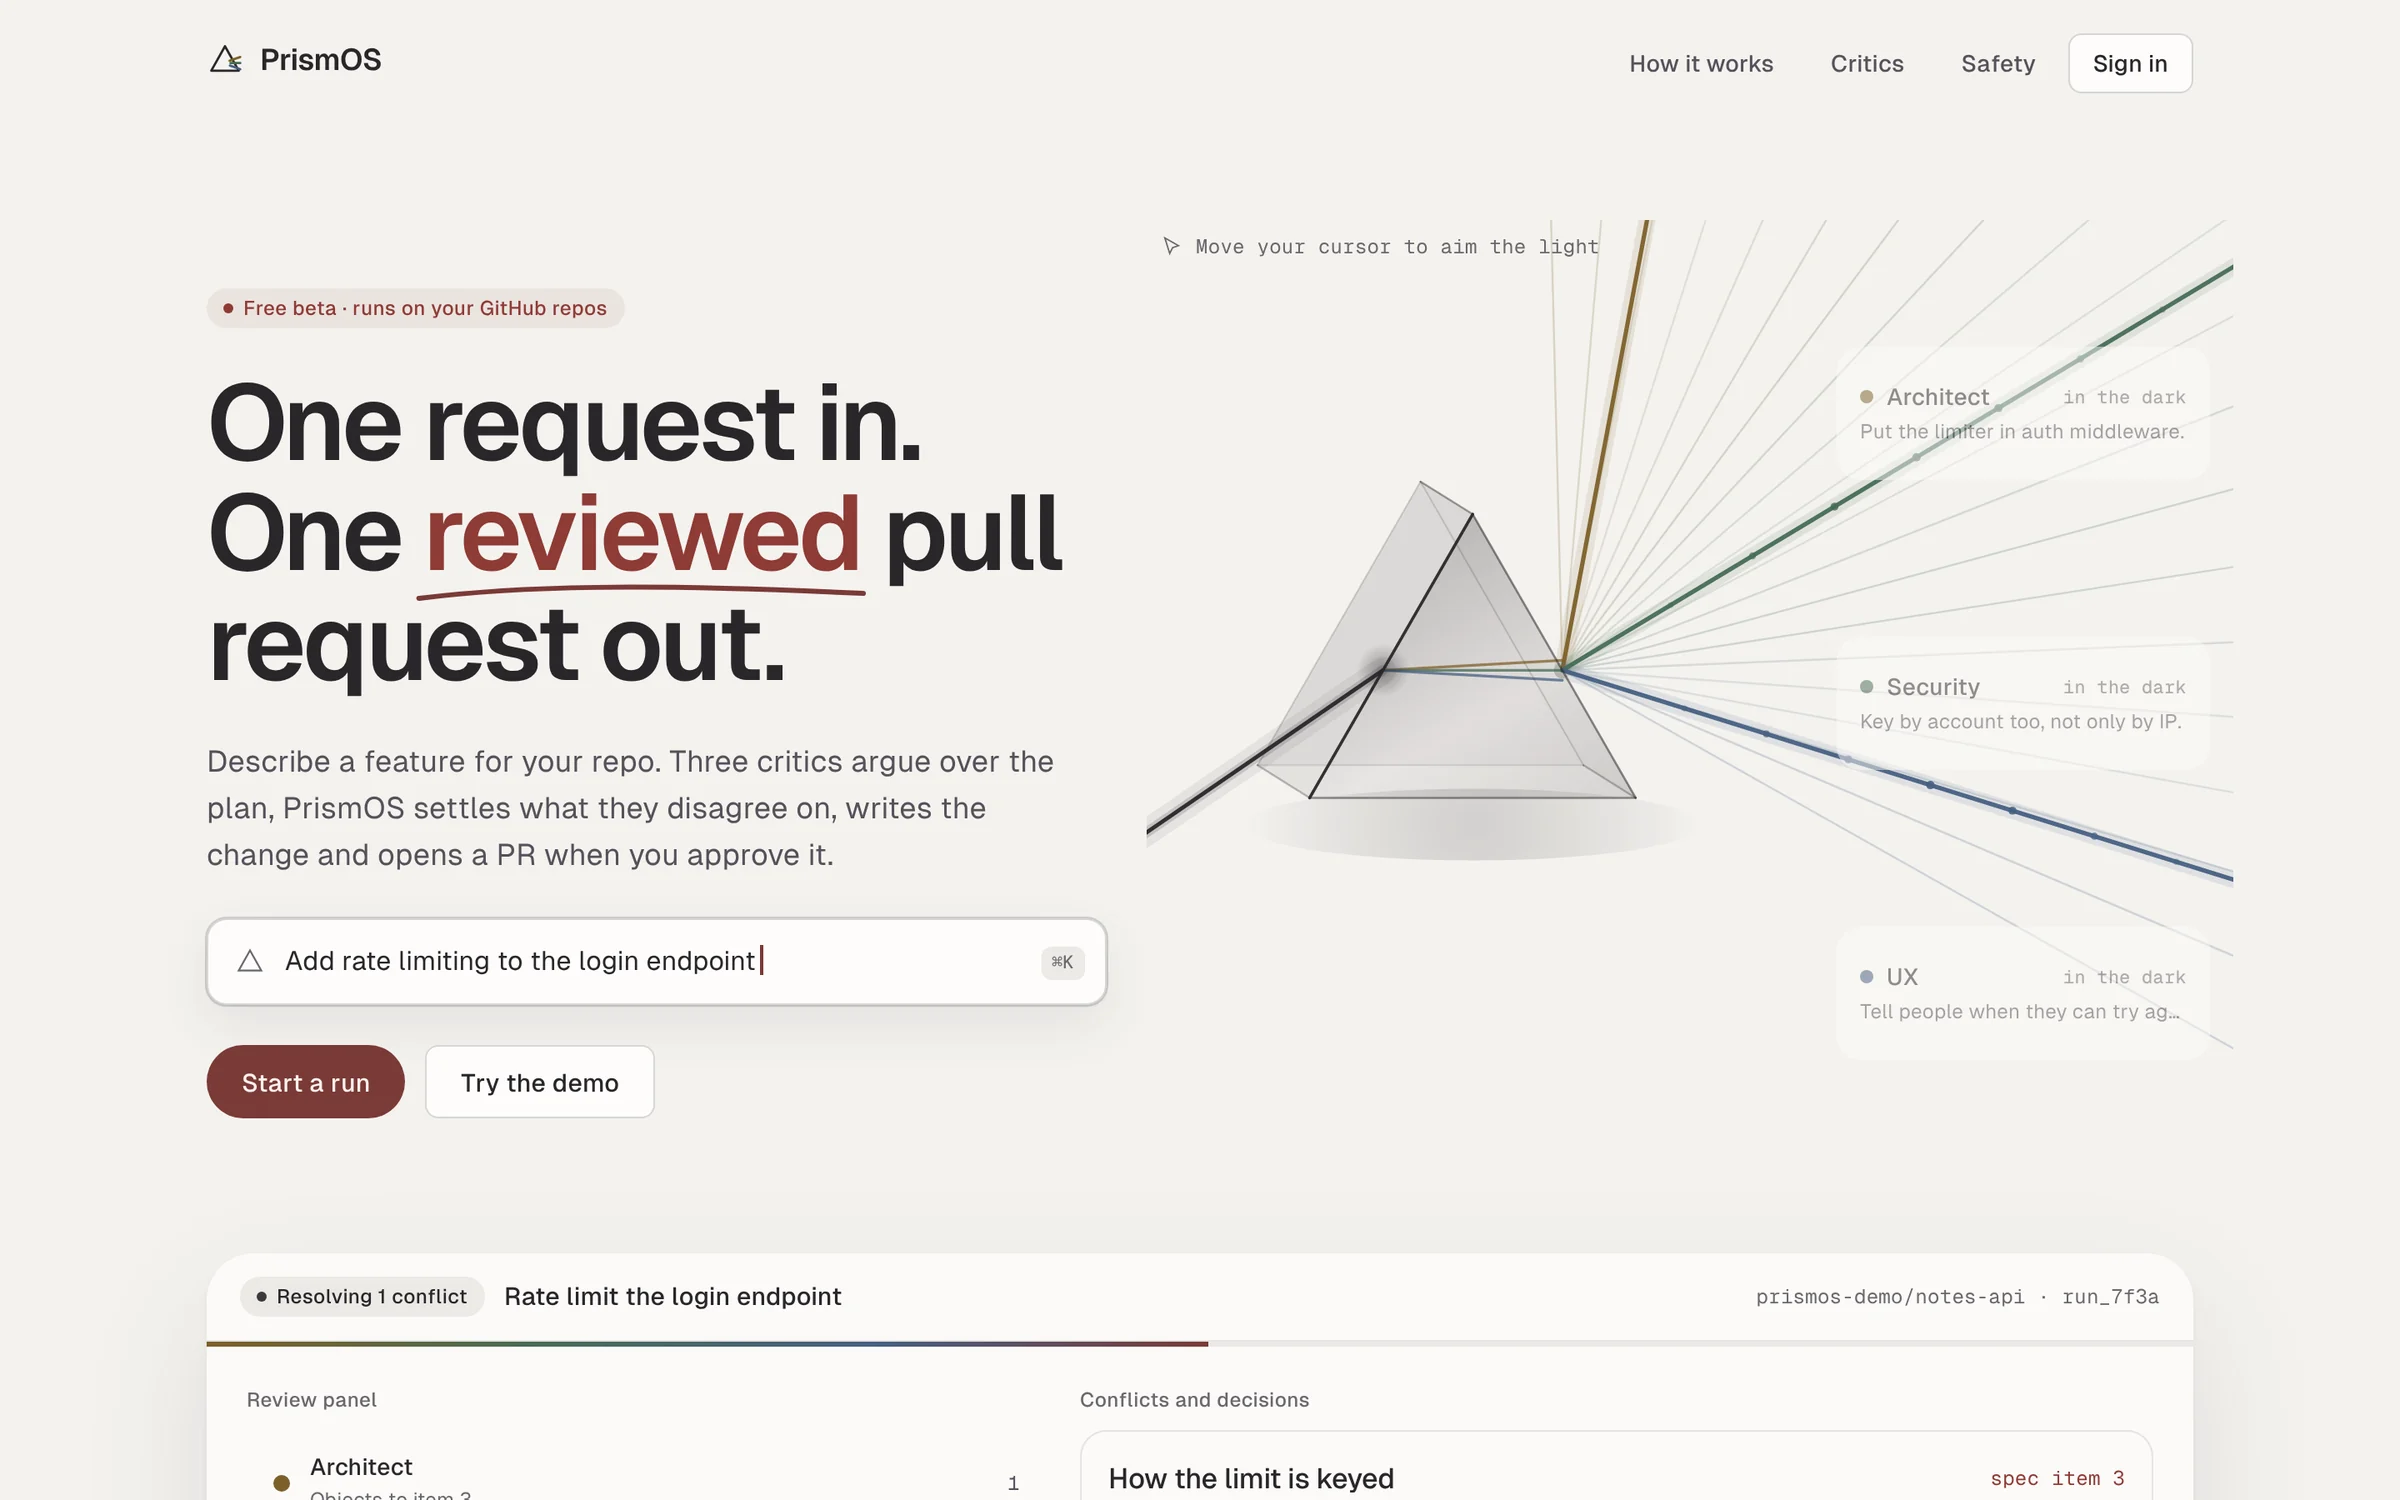
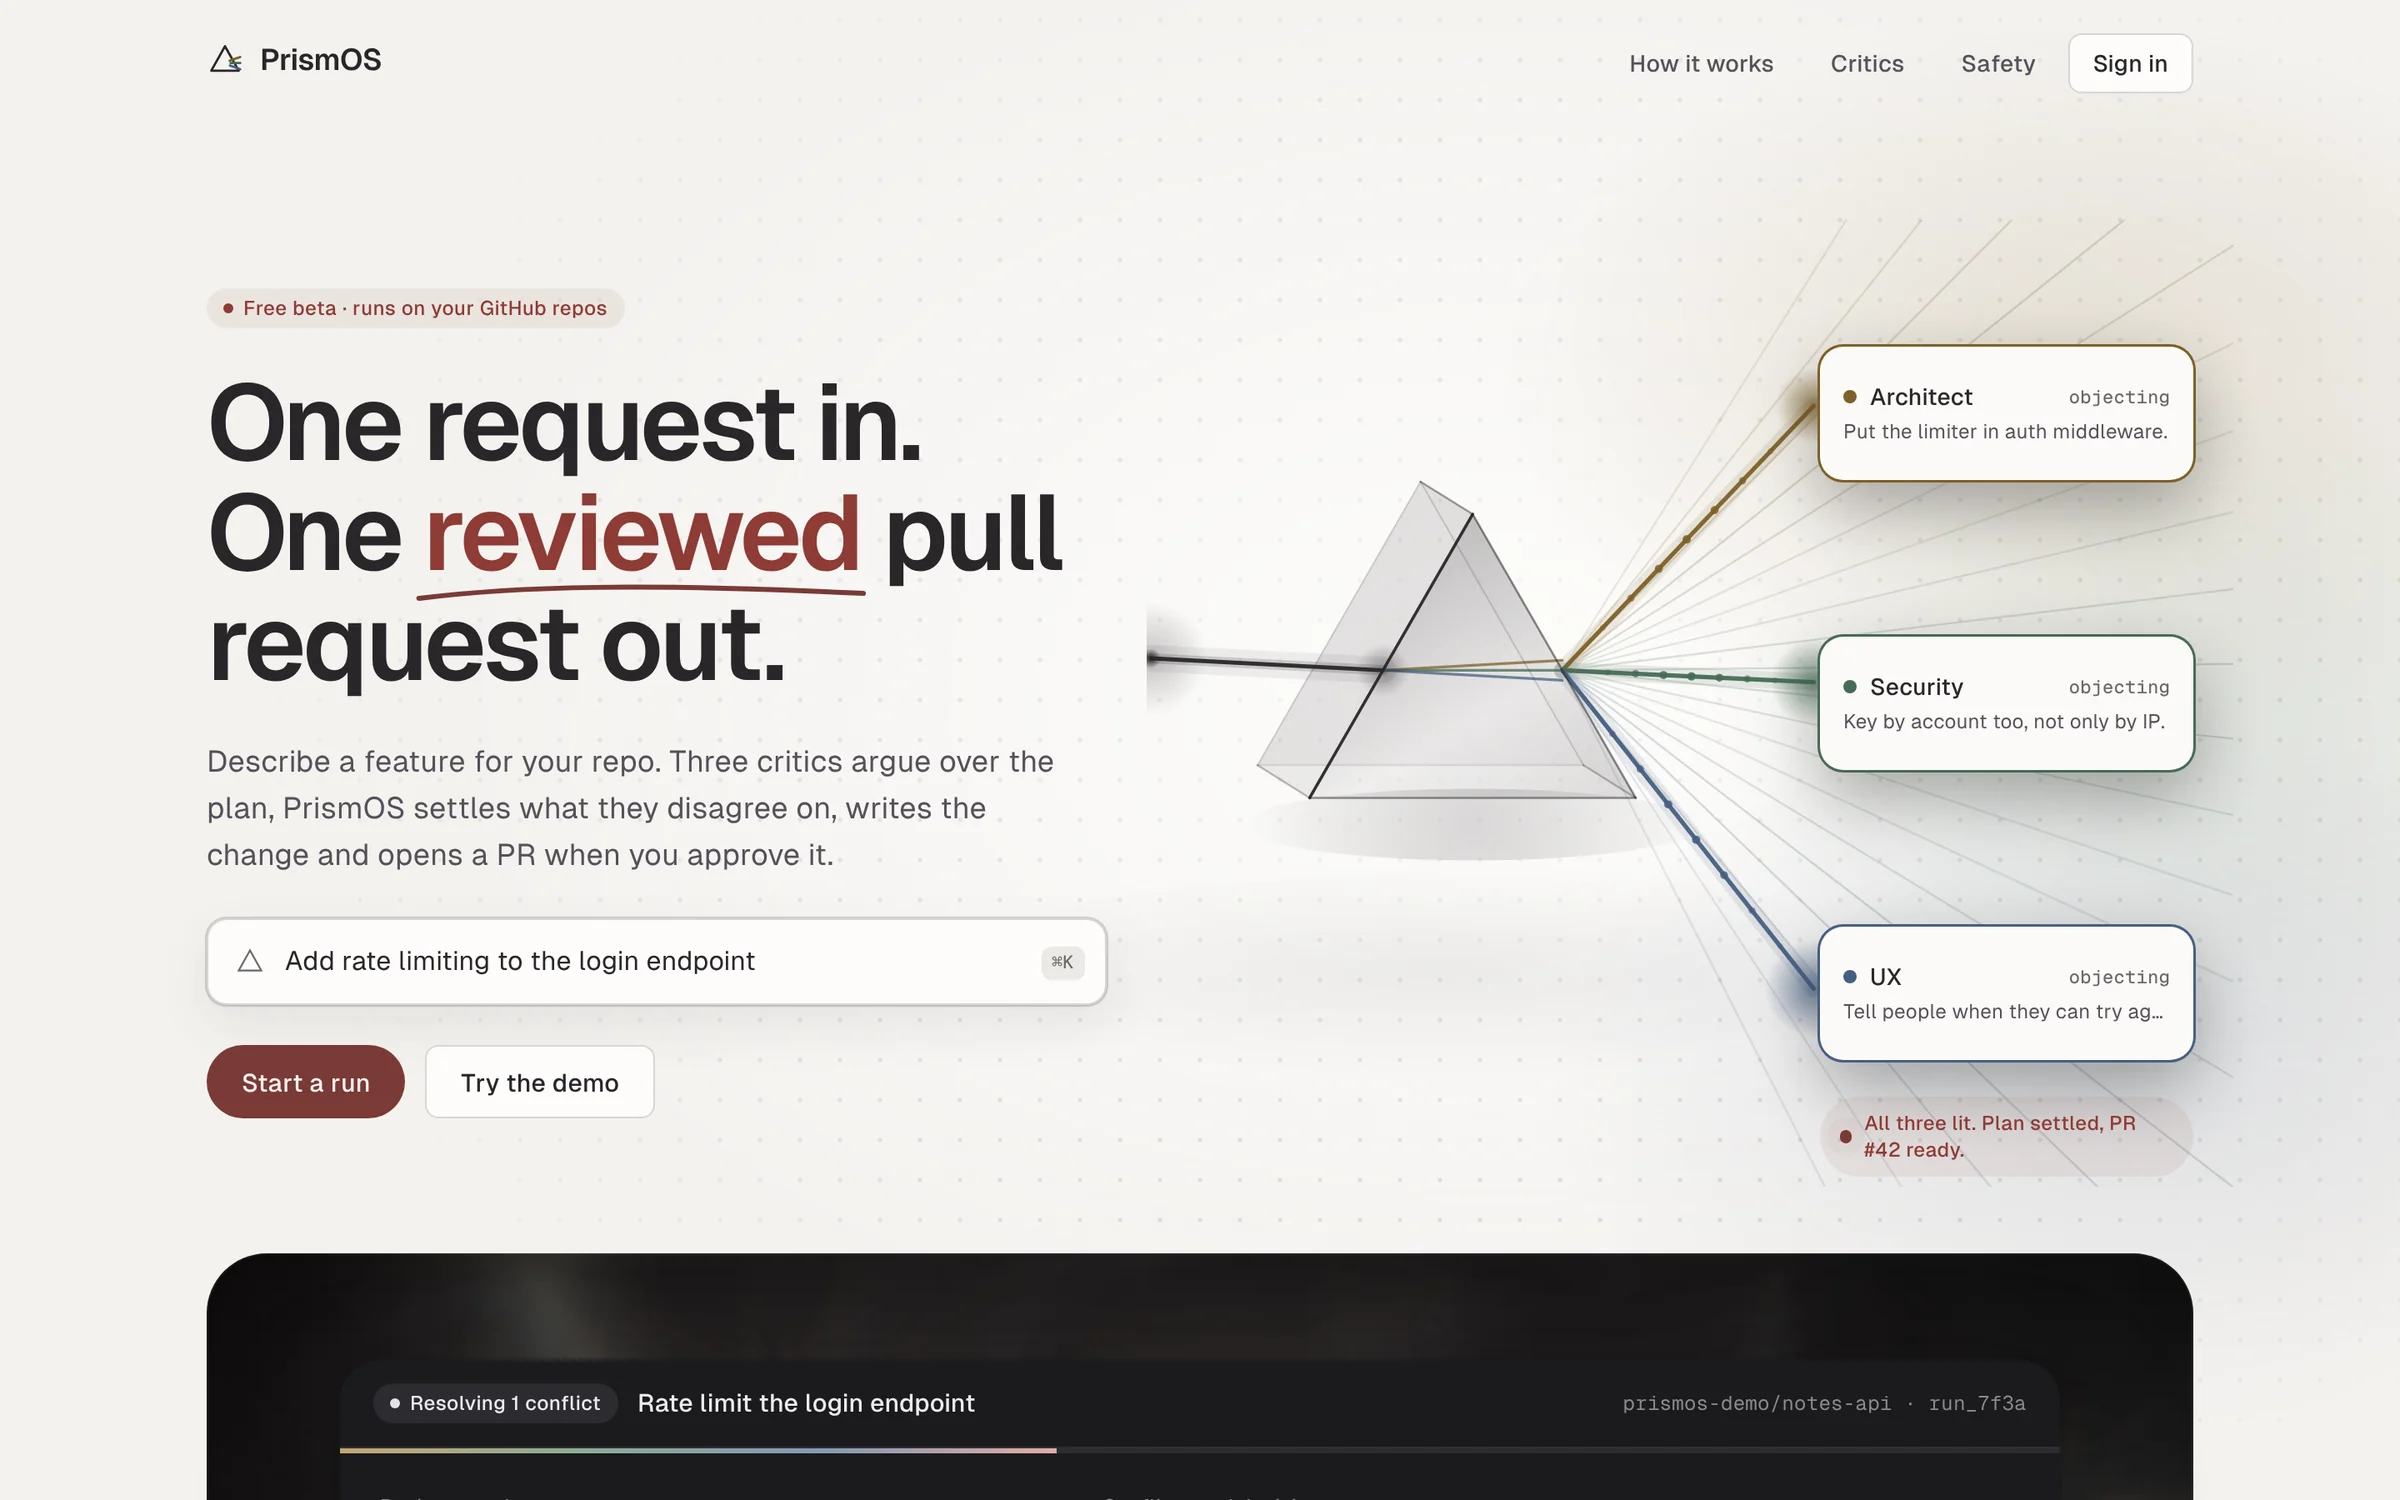
update the PrismOS screenshot to the new prism landing page

diff --git a/src/content/projects.ts b/src/content/projects.ts
@@ -89,7 +89,7 @@ export const projects: Project[] = [
     roleNote:
       "I built the hackathon version, audited it, and rebuilt it as a product in four days on free tiers: the pipeline and its conflict rule, the Postgres queue, the GitHub App access model, the web app and its design system, and the eval.",
     links: { live: "https://prism-os-jade.vercel.app", repo: "https://github.com/Elisabeth56/PrismOS" },
-    shot: { width: 2400, height: 1500, alt: "The PrismOS landing page, headed “One request in. One reviewed pull request out.”" },
+    shot: { width: 2400, height: 1500, alt: "The PrismOS landing page, headed “One request in. One reviewed pull request out.”, with light through a prism reaching all three critics." },
     problem: [
       "Asking a model for a feature gets you code that skips the part a reviewer would catch: where the change belongs, how it can be abused, what the user sees when it fails.",
       "Running several agents usually does not help either, because each gives its own opinion on its own text and nobody resolves anything. And once the code is written, turning it into a pull request is still your job.",
